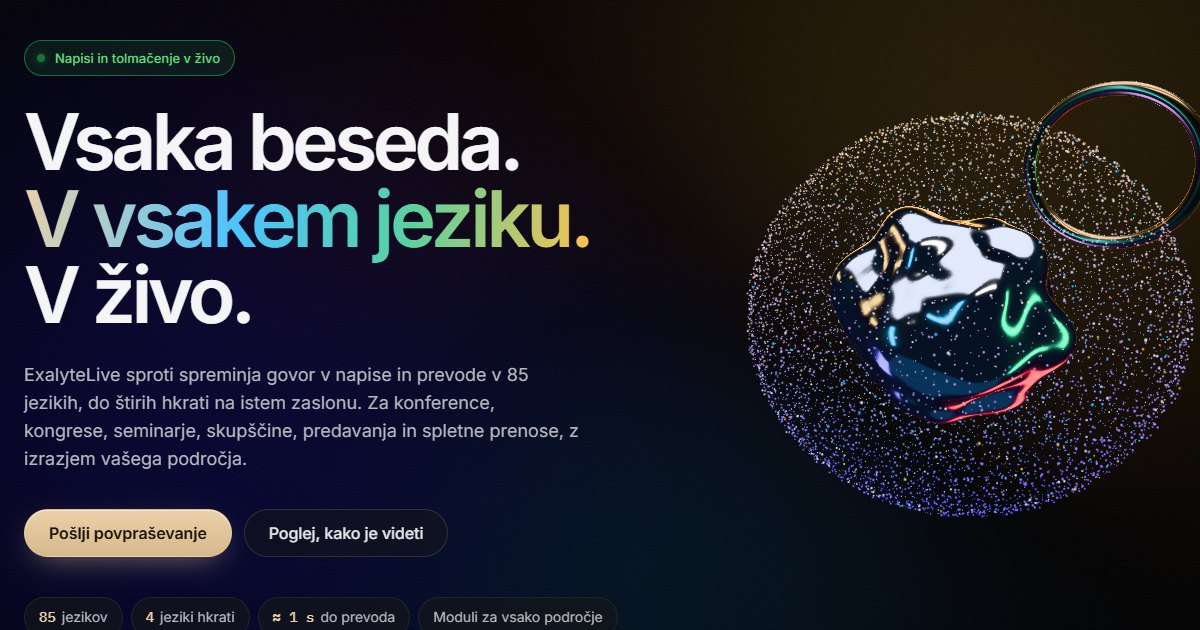
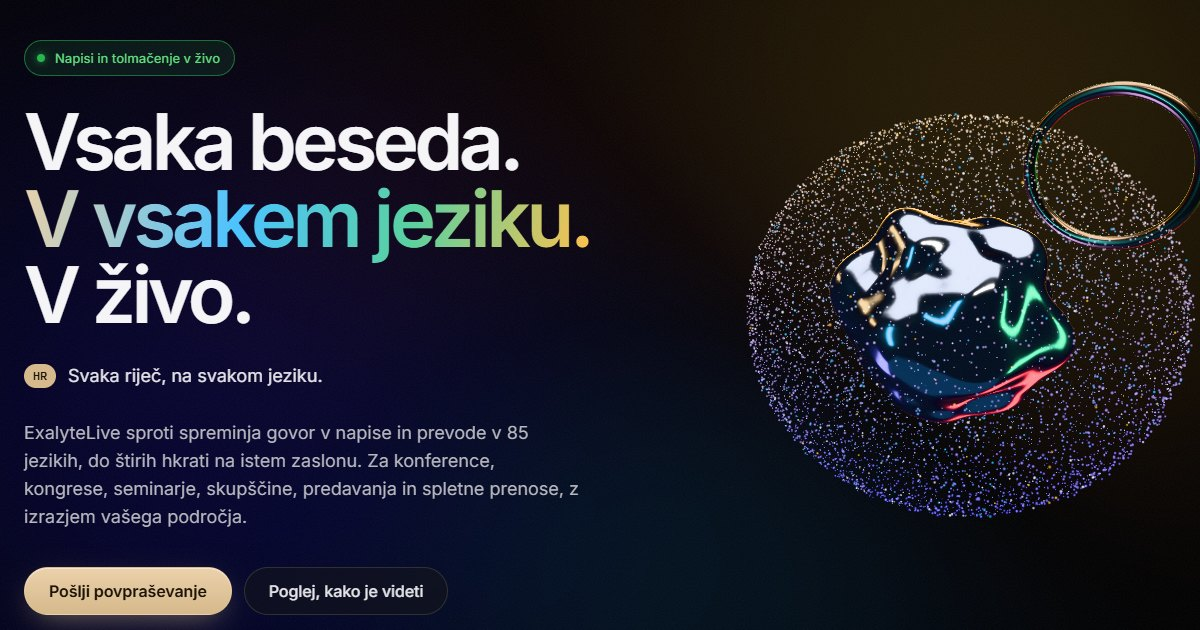
Objava a59ba6b

Changed region(s): [[0.6167, 0.1508, 1.0, 0.8444], [0.0, 0.573, 0.5242, 0.9952], [0.8942, 0.1206, 1.0, 0.2413]]

diff --git a/fr/index.html b/fr/index.html
@@ -13,15 +13,13 @@
 		<meta property="og:locale:alternate" content="en_GB" >
 		<meta property="og:locale:alternate" content="de_DE" >
 		<meta property="og:locale:alternate" content="fr_FR" >
-		<meta property="og:title" content="ExalyteLive · Vsaka beseda. V vsakem jeziku. V živo." >
-		<meta 			property="og:description"
-			content="Napisi in tolmačenje v živo v 85 jezikih, do štirih hkrati, z moduli izrazja za vsako področje."
-		>
+		<meta property="og:title" content="ExalyteLive · Chaque mot. Dans chaque langue. En direct.">
+		<meta property="og:description" content="ExalyteLive transforme la parole en sous-titres et en traductions dans 85 langues, jusqu’à quatre à la fois, avec des modules terminologiques pour chaque domaine.">
 		<meta property="og:url" content="https://tileninter.github.io/exalytelive-website-site/fr/">
-		<meta property="og:image" content="https://tileninter.github.io/exalytelive-website-site/og-image.jpg" >
+		<meta property="og:image" content="https://tileninter.github.io/exalytelive-website-site/og-image-fr.jpg">
 		<meta property="og:image:width" content="1200" >
 		<meta property="og:image:height" content="630" >
-		<meta property="og:image:alt" content="ExalyteLive: Vsaka beseda. V vsakem jeziku. V živo." >
+		<meta property="og:image:alt" content="ExalyteLive: Chaque mot. Dans chaque langue. En direct.">
 		<meta name="twitter:card" content="summary_large_image" >
 		<link rel="canonical" href="https://tileninter.github.io/exalytelive-website-site/fr/">
 		<link rel="alternate" hreflang="sl" href="https://tileninter.github.io/exalytelive-website-site/" >
@@ -41,7 +39,7 @@
 	"@context": "https://schema.org",
 	"@type": "SoftwareApplication",
 	"url": "https://tileninter.github.io/exalytelive-website-site/",
-	"image": "https://tileninter.github.io/exalytelive-website-site/og-image.jpg",
+	"image": "https://tileninter.github.io/exalytelive-website-site/og-image-fr.jpg",
 	"name": "ExalyteLive",
 	"applicationCategory": "MultimediaApplication",
 	"operatingSystem": "Windows 11",

diff --git a/de/index.html b/de/index.html
@@ -13,15 +13,13 @@
 		<meta property="og:locale:alternate" content="en_GB" >
 		<meta property="og:locale:alternate" content="de_DE" >
 		<meta property="og:locale:alternate" content="fr_FR" >
-		<meta property="og:title" content="ExalyteLive · Vsaka beseda. V vsakem jeziku. V živo." >
-		<meta 			property="og:description"
-			content="Napisi in tolmačenje v živo v 85 jezikih, do štirih hkrati, z moduli izrazja za vsako področje."
-		>
+		<meta property="og:title" content="ExalyteLive · Jedes Wort. In jeder Sprache. Live.">
+		<meta property="og:description" content="ExalyteLive verwandelt Gesprochenes in Untertitel und Übersetzungen in 85 Sprachen, bis zu vier gleichzeitig, mit Terminologie-Modulen für jedes Fachgebiet.">
 		<meta property="og:url" content="https://tileninter.github.io/exalytelive-website-site/de/">
-		<meta property="og:image" content="https://tileninter.github.io/exalytelive-website-site/og-image.jpg" >
+		<meta property="og:image" content="https://tileninter.github.io/exalytelive-website-site/og-image-de.jpg">
 		<meta property="og:image:width" content="1200" >
 		<meta property="og:image:height" content="630" >
-		<meta property="og:image:alt" content="ExalyteLive: Vsaka beseda. V vsakem jeziku. V živo." >
+		<meta property="og:image:alt" content="ExalyteLive: Jedes Wort. In jeder Sprache. Live.">
 		<meta name="twitter:card" content="summary_large_image" >
 		<link rel="canonical" href="https://tileninter.github.io/exalytelive-website-site/de/">
 		<link rel="alternate" hreflang="sl" href="https://tileninter.github.io/exalytelive-website-site/" >
@@ -41,7 +39,7 @@
 	"@context": "https://schema.org",
 	"@type": "SoftwareApplication",
 	"url": "https://tileninter.github.io/exalytelive-website-site/",
-	"image": "https://tileninter.github.io/exalytelive-website-site/og-image.jpg",
+	"image": "https://tileninter.github.io/exalytelive-website-site/og-image-de.jpg",
 	"name": "ExalyteLive",
 	"applicationCategory": "MultimediaApplication",
 	"operatingSystem": "Windows 11",

diff --git a/en/index.html b/en/index.html
@@ -13,15 +13,13 @@
 		<meta property="og:locale:alternate" content="en_GB" >
 		<meta property="og:locale:alternate" content="de_DE" >
 		<meta property="og:locale:alternate" content="fr_FR" >
-		<meta property="og:title" content="ExalyteLive · Vsaka beseda. V vsakem jeziku. V živo." >
-		<meta 			property="og:description"
-			content="Napisi in tolmačenje v živo v 85 jezikih, do štirih hkrati, z moduli izrazja za vsako področje."
-		>
+		<meta property="og:title" content="ExalyteLive · Every word. In every language. Live.">
+		<meta property="og:description" content="ExalyteLive turns speech into captions and translations in 85 languages, up to four at once, with terminology modules for every field.">
 		<meta property="og:url" content="https://tileninter.github.io/exalytelive-website-site/en/">
-		<meta property="og:image" content="https://tileninter.github.io/exalytelive-website-site/og-image.jpg" >
+		<meta property="og:image" content="https://tileninter.github.io/exalytelive-website-site/og-image-en.jpg">
 		<meta property="og:image:width" content="1200" >
 		<meta property="og:image:height" content="630" >
-		<meta property="og:image:alt" content="ExalyteLive: Vsaka beseda. V vsakem jeziku. V živo." >
+		<meta property="og:image:alt" content="ExalyteLive: Every word. In every language. Live.">
 		<meta name="twitter:card" content="summary_large_image" >
 		<link rel="canonical" href="https://tileninter.github.io/exalytelive-website-site/en/">
 		<link rel="alternate" hreflang="sl" href="https://tileninter.github.io/exalytelive-website-site/" >
@@ -41,7 +39,7 @@
 	"@context": "https://schema.org",
 	"@type": "SoftwareApplication",
 	"url": "https://tileninter.github.io/exalytelive-website-site/",
-	"image": "https://tileninter.github.io/exalytelive-website-site/og-image.jpg",
+	"image": "https://tileninter.github.io/exalytelive-website-site/og-image-en.jpg",
 	"name": "ExalyteLive",
 	"applicationCategory": "MultimediaApplication",
 	"operatingSystem": "Windows 11",
